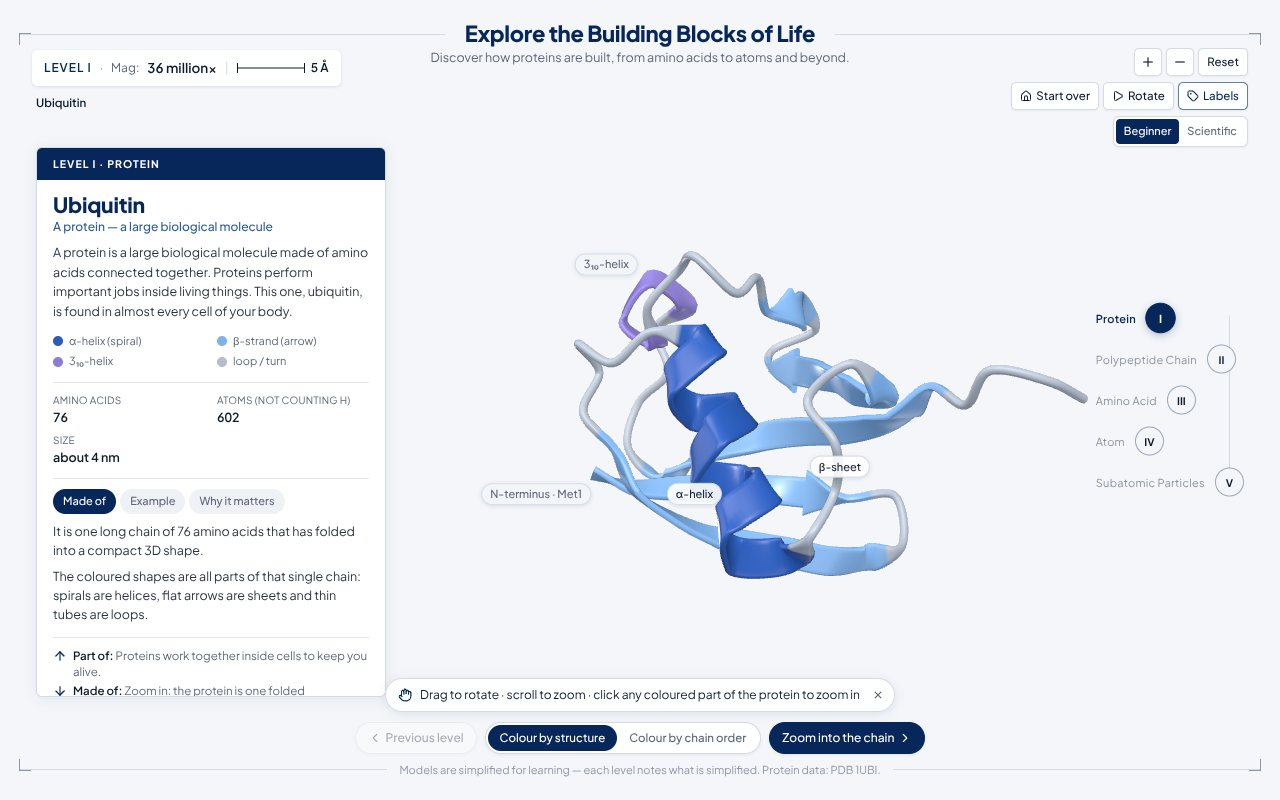
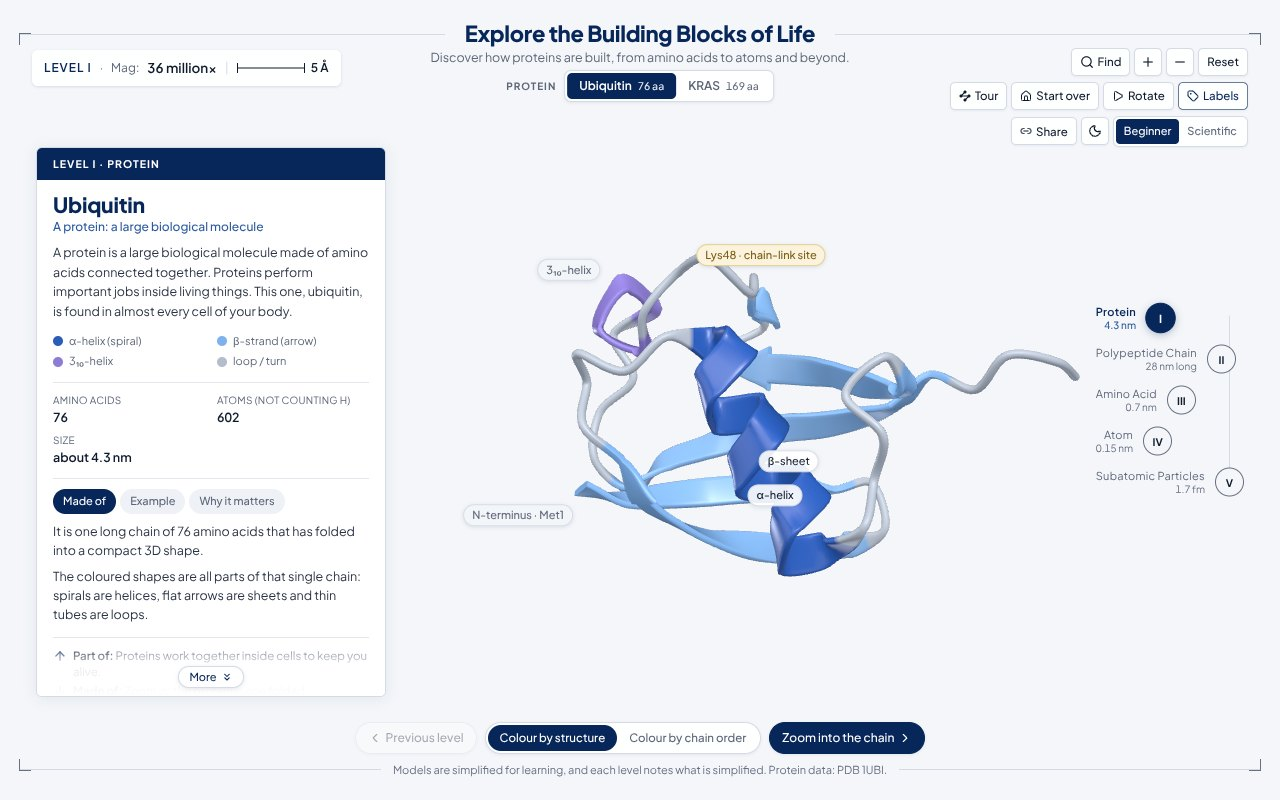
Document the pipeline in the README

diff --git a/README.md b/README.md
@@ -4,7 +4,9 @@ An interactive 3D journey into a real protein. Start with the folded protein **u
 
 **Protein → Polypeptide Chain → Amino Acid → Atom → Subatomic Particles**
 
-Click any part to fly into it. The camera approaches the component you picked, the surrounding structure swells past the camera and dissolves, and the next level grows out of the exact spot you clicked. Every level is real, interactive 3D (Three.js / React Three Fiber), built from measured coordinates wherever they exist. Each level states clearly what has been simplified.
+A second section, **How it was made**, follows the same KRAS molecule through the lab in ten interactive 3D stages, from its gene to the deposited structure, using what the 4OBE file records about its own experiment.
+
+Click any part to fly into it. The camera approaches the component you picked, the surrounding structure swells past the camera and dissolves, and the next level grows out of the exact spot you clicked. Every level is real, interactive 3D (Three.js / React Three Fiber), built from measured coordinates wherever they exist. Each level states clearly what has been simplified. New visitors can press **Tour** and watch the whole journey with captions.
 
 ![Level I: ubiquitin ribbon](docs/screenshots/1-protein.jpg)
 
@@ -12,6 +14,20 @@ Click any part to fly into it. The camera approaches the component you picked, t
 | --- | --- | --- | --- |
 | ![chain](docs/screenshots/2-polypeptide-chain.jpg) | ![amino acid](docs/screenshots/3-amino-acid.jpg) | ![atom](docs/screenshots/4-atom.jpg) | ![particles](docs/screenshots/5-subatomic-particles.jpg) |
 | ![unfolded](docs/screenshots/2b-chain-unfolded.jpg) | ![free amino acid](docs/screenshots/3b-free-amino-acid.jpg) | ![electron cloud](docs/screenshots/4b-electron-cloud.jpg) | ![zoom transition](docs/screenshots/transition-zoom.jpg) |
+
+### Features at a glance
+
+* **Guided tour**: one click zooms through all five levels on its own, with a caption at each stop (pause, step back or skip at any time).
+* **Real sizes**: the level navigation shows how big each level really is, measured from the structure: protein 4.5 nm, stretched chain 64 nm, amino acid 0.6 nm, atom 0.15 nm, proton 1.7 fm (KRAS).
+* **Cancer hotspots** (KRAS): highlights Gly12, Gly13 and Gln61 on the ribbon and the chain, explains what each mutation does and jumps straight to it.
+* **Find an amino acid**: type `G12`, `Lys48`, `61` or `glycine` and open it at Level III.
+* **Shareable links**: the address bar always describes the current view, and **Share** copies it.
+* **Dark mode**: follows the system setting until you choose; remembered per browser.
+* **Numbered helices** in Scientific mode (α1 to α5 for KRAS), labels that keep clear of the panels, and a "More" cue when the info card scrolls.
+
+| Guided tour | Cancer hotspots | Dark mode | Find |
+| --- | --- | --- | --- |
+| ![guided tour](docs/screenshots/guided-tour.jpg) | ![hotspots](docs/screenshots/kras-hotspots.jpg) | ![dark mode](docs/screenshots/dark-mode.jpg) | ![search](docs/screenshots/residue-search.jpg) |
 
 ---
 
@@ -26,7 +42,36 @@ Use the **Protein** switcher (top centre) to choose a structure. Each one starts
 
 ![KRAS with GDP and Mg²⁺](docs/screenshots/kras-protein.jpg)
 
+For KRAS, the **Cancer hotspots** toggle (Levels I and II) marks the three classic oncogenic positions, G12, G13 and Q61, in red; the info card lists what each change does, with a shortcut into each one.
+
 Structures can be in either the classic PDB format (`.pdb`) or PDBx/mmCIF (`.cif`, the wwPDB's current standard format); the app detects the format from the file contents. It loads the bundled copy first and, if that file is missing, downloads it from `files.rcsb.org` in the browser. To add another protein, drop its structure file into `public/pdb/` and add an entry to `src/content/proteins.ts` (file, chain, start residue, functional sites, residue notes and Level I text).
+
+## How it was made: from gene to structure
+
+Switch to **How it was made** (top centre) to follow KRAS (PDB 4OBE) through the ten steps that produced the structure. Each stage is its own 3D scene with lab steps you trigger (**Add IPTG**, **Load the nickel column**, **Let it equilibrate**, …), a card that explains it at Beginner or Scientific level, and a note on what is simplified. Arrow keys move between stages; the last stage opens the finished structure in the explorer.
+
+| # | Stage | What you see |
+| --- | --- | --- |
+| 1 | Gene | KRAS on chromosome 12 (12p12.1), then a to-scale B-DNA close-up of codons 10 to 21 with codons 12 (GGT) and 13 (GGC) spelled out |
+| 2 | Construct design | The 188 residues trimmed to the G-domain (1 to 169) and a His-tag plus TEV site added; Gly0, which 4OBE flags as an expression tag, stays behind |
+| 3 | Plasmid | The construct pasted into a pJExpress401 ring with promoter, origin and resistance gene |
+| 4 | E. coli | BL21(DE3) cells take up the plasmid; the antibiotic clears the cells without it; the colony grows |
+| 5 | Expression | IPTG switches the gene on; a ribosome reads the mRNA and the chain folds into the real 4OBE fold and picks up GDP·Mg²⁺ |
+| 6 | Purification | Cells broken open, nickel column (flow-through, wash, imidazole), tag cut off, size exclusion, with schematic chromatograms |
+| 7 | Storage | Concentrated, split into single-use tubes, flash-frozen in liquid nitrogen, kept at −80 °C |
+| 8 | Crystallization | A hanging drop shrinks and crystals grow; inside the crystal, the real C2 unit cell holds 8 KRAS molecules made from the 2 deposited ones by symmetry |
+| 9 | X-ray diffraction | The crystal turns in the beam at APS 19-ID; spots calculated from the 4OBE atoms light up on an ADSC Quantum 315 detector, with a flat detector image you can hover |
+| 10 | Solved structure | Molecular replacement places a search model, refinement settles the atoms into calculated electron density, and the model is deposited as 4OBE |
+
+| Plasmid | Expression | Purification |
+| --- | --- | --- |
+| ![plasmid](docs/screenshots/pipeline-3-plasmid.jpg) | ![expression](docs/screenshots/pipeline-5-expression.jpg) | ![purification](docs/screenshots/pipeline-6-purification.jpg) |
+| **Inside the crystal** | **X-ray diffraction** | **Refined in the electron density** |
+| ![unit cell](docs/screenshots/pipeline-8-crystal-lattice.jpg) | ![diffraction](docs/screenshots/pipeline-9-diffraction.jpg) | ![refined](docs/screenshots/pipeline-10-refined.jpg) |
+
+Every fact on a stage card carries a badge saying where it comes from: **4OBE** (read from the file: gene names, expression host and plasmid, crystallization recipe, cell and space group, beamline, wavelength, detector, dates, R-factors), **computed** (worked out from the file, such as the molecules per cell and the solvent content), or **typical** (common lab practice that the file does not record, such as storage temperatures).
+
+---
 
 ## Quick start
 
@@ -72,11 +117,34 @@ No API keys or network access are needed at runtime. Both protein structures shi
 | Zoom into a component | click it | `→` (zooms into the current selection) |
 | Previous level | "Back to …" button | `←` or `Esc` |
 | Jump to any level | right-hand I–V navigation or the breadcrumb | |
+| Find an amino acid | **Find** | `/` |
+| Guided tour | **Tour** (or "Take the tour" in the first hint) | `T`; during the tour `←` `→` step and `Esc` ends it |
 | Reset view / start over | **Reset** / **Start over** | `R` |
 | Labels | **Labels** | `L` |
 | Beginner ↔ Scientific | toggle | `M` |
+| Light ↔ dark theme | moon / sun button | `D` |
+| Copy a link to this view | **Share** | |
 
-The magnification and scale bar in the top-left pill update live as you zoom (Levels I–III use real Å/nm scale; IV–V are marked schematic).
+The magnification and scale bar in the top-left pill update live as you zoom (Levels I–III use real Å/nm scale; IV–V are marked schematic). The level navigation on the right gives the real size of each level.
+
+### Shareable links
+
+The address bar mirrors the view, so any view can be bookmarked or sent:
+
+| Parameter | Meaning | Example |
+| --- | --- | --- |
+| `p` | protein: `ubiquitin` or `kras` | `p=kras` |
+| `l` | level 1 to 5 | `l=3` |
+| `r` | residue number | `r=12` |
+| `a` | atom name in that residue | `a=CA` |
+| `x` | particle at Level V: `proton`, `neutron`, `electron` | `x=electron` |
+| `m` | `sci` for Scientific mode | `m=sci` |
+| `v` | view option: `unfolded` (II), `free` (III), `cloud` (IV) | `v=cloud` |
+| `h` | `1` to show cancer hotspots (I and II) | `h=1` |
+| `view` | `make` opens How it was made | `view=make` |
+| `s` | stage 1 to 10 in How it was made | `s=9` |
+
+For example, `/?p=kras&l=4&r=12&a=CA` opens the α-carbon of KRAS Gly12. `/?view=make&s=9` opens the X-ray diffraction stage.
 
 ---
 
@@ -87,6 +155,9 @@ The magnification and scale bar in the top-left pill update live as you zoom (Le
 * **Bead model (II).** One bead stands for a whole residue. This simplification is stated on screen.
 * **Amino acid (III).** Heavy atoms are the crystal coordinates. X-ray structures rarely resolve hydrogens, so they are placed from residue templates (4OBE includes riding hydrogens added during refinement; these are skipped so both proteins are drawn the same way) with ideal geometry (C–H 1.09 Å, N–H 1.01 Å, O–H 0.96 Å; sp³ tetrahedral, sp² trigonal). Protonation states are for pH ≈ 7: Lys/Arg protonated, Asp/Glu deprotonated, His as the Nε2–H tautomer, a charged N-terminus and C-terminus. The free amino acid uses the neutral textbook form; the scientific text notes the zwitterion. Formulas are counted from the displayed atoms and verified against reference formulas for every residue type in ubiquitin.
 * **Atom (IV).** The Bohr-style orbits carry an on-screen warning that electrons do not travel in fixed planetary orbits. The cloud view samples Slater-type 1s/2s/2p densities (Clementi–Raimondi exponents; radial nodes omitted) and fills p orbitals by Hund's rule. The nucleus is enlarged about 10⁴×; the text states the real scale ("a 1 cm marble → an atom about 280 m across").
+* **How it was made: crystal (8).** The unit cell, space group (C 1 2 1) and symmetry operators come from the file. Each of the 8 molecules in the cell is a symmetry copy of one of the two deposited chains, moved by whole cells so its centre lies inside the box; the hover gives the operator, e.g. −x+1/2, y+1/2, −z. The Matthews coefficient computed from the cell (1.99 Å³/Da, 38% solvent) matches the file. The hanging drop is schematic and days are compressed into seconds.
+* **How it was made: diffraction (9).** Spots are calculated in the browser: every reflection to the file's 1.24 Å limit is enumerated from the cell, systematic absences are removed (for C2, h + k odd), and each reciprocal-lattice point is recorded where it crosses the Ewald sphere at the recorded wavelength (0.97926 Å) as the crystal turns. Intensities are |F|², summed over all 2,738 heavy atoms and the symmetry operators with four-Gaussian form factors and each atom's B-factor; they agree with a direct brute-force sum to within a few percent. Lorentz and polarisation factors, background, noise and spot shape are left out. The detector distance (about 150 mm) is chosen so the 1.24 Å limit reaches the detector edge, and the crystal mounting is arbitrary. The crystal, loop and pin are enlarged.
+* **How it was made: solved structure (10).** The mesh is electron density calculated from the deposited atoms of the P-loop, GDP and Mg²⁺ (each atom's form factor and B-factor, contoured at 1.2 e/Å³); the first map adds 50 Å² to every B to look blurry. The search model is drawn with 4OBE's own atoms, since 4EPV is not bundled, and the refinement is schematic. R-work and R-free are the file's values.
 * **Particles (V).** Charges, masses, quark content and lifetimes are standard values. Sizes and colours are schematic, and the gluon springs are only a suggestion of the strong force.
 
 ---
@@ -103,15 +174,34 @@ src/
     useKeyboardShortcuts.ts
     ui/                          FrameChrome, ScalePill, Breadcrumb, ViewControls, LevelNav,
                                  InfoPanel + LevelWidgets, BottomBar, HoverTooltip, Hints,
-                                 LabelOverlay, LoadingState, ProteinSwitcher
+                                 LabelOverlay, LoadingState, ProteinSwitcher, ResidueSearch, Tour
+  pipeline/                      How it was made: ten lab stages in their own canvas
+    PipelineView.tsx             Layout: stage pill, section tabs, stage card, actions, navigation
+    PipelineCanvas.tsx           Canvas, lights, mounts the current (or outgoing + incoming) stage
+    PipelineCamera.tsx           Per-stage framing, fly-through between stages, re-framing on steps
+    PipelineStage.tsx            Scale and fade of a stage during a change
+    runtime.ts                   Per-frame transition state and the debug speed
+    stages/                      GeneStage, ConstructStage, PlasmidStage, CellStage, ExpressionStage,
+                                 PurificationStage, StorageStage, CrystalStage, DiffractionStage,
+                                 StructureStage (+ index.tsx registry)
+    lib/crystalPacking.ts        Unit-cell packing, cell edges, symmetry operator text, crystal shape
+    lib/diffraction.ts           Reflections, absences, Ewald crossings and |F|² (built in slices)
+    lib/density.ts               Calculated electron density and its chicken-wire contour
+    lib/viewFade.ts              Cross-fade between two views of a stage
+    ui/                          StagePanel, StageWidget (keys, chromatograms, thermometer,
+                                 detector image), StageControls, PipelineNav, StagePill
   content/                       Educational content (separate from rendering)
     proteins.ts                  The proteins on offer: file, start residue, sites, Level I text
     info.ts                      Beginner/scientific text per level, hover text, breadcrumb
     aminoAcids.ts                Reference data for all 20 amino acids
-    levels.ts                    Level names, numerals, real-world scale per unit
+    levels.ts                    Level names, numerals, real-world scale, real size per level
+    tour.ts                      Guided tour steps and captions
+    pipeline.ts                  Stage names and text, facts with their sources, lab steps
   lib/                           Pure scientific/geometry code (no React)
     pdb/parsePdb.ts              Fixed-column PDB parser (ATOM, HETATM, HELIX, SHEET)
     pdb/parseCif.ts              PDBx/mmCIF reader (atom_site, struct_conf, struct_sheet_range)
+    pdb/experiment.ts            How the entry was made (gene, host, crystal, beamline, refinement)
+                                 plus the unit cell, symmetry operators and asymmetric-unit atoms
     structure/protein.ts         Protein model: centring, principal axes, regions, loading
     structure/chainLayout.ts     Folded / unfolded bead layouts
     geometry/ribbon.ts           Cartoon ribbon mesh builder (+ per-residue picking)
@@ -122,6 +212,7 @@ src/
     atom/atomModel.ts            Nucleon packing, Bohr shells, orbital cloud sampling
   scene/                         3D rendering (React Three Fiber)
     SceneCanvas.tsx              Canvas, lights, adaptive DPR, fog
+    SceneThemeSync.tsx           Background, fog and colour mixing follow the light / dark theme
     StageManager.tsx             Mounts current / outgoing / incoming level stages
     StageGroup.tsx               Per-stage transform + material fade during transitions
     TransitionController.tsx     Staged zoom: approach → dissolve → settle (both directions)
@@ -132,8 +223,11 @@ src/
                                  ParticleLevel, atomLayout
     shared/                      Palette, SceneLabel + label registry, geometry helpers
   store/
-    explorerStore.ts             Zustand: level, selection path, modes, toggles, transitions
+    explorerStore.ts             Zustand: level, selection path, modes, toggles, theme, transitions
     dataStore.ts                 Loaded proteins + memoised per-residue molecules
+    tourStore.ts                 Guided tour state (step, pause, progress)
+    pipelineStore.ts             How it was made: stage, steps per stage, view toggles, transitions
+    urlState.ts                  Shareable links: read the address on load, keep it in sync
 ```
 
 ### How a transition works
@@ -153,7 +247,7 @@ src/
 
 Next.js 16 (App Router, Turbopack) · React 19 · TypeScript · Three.js · @react-three/fiber · @react-three/drei · Tailwind CSS v4 · Motion · Zustand · lucide-react · Fontsource (Plus Jakarta Sans).
 
-**Visual style:** a navy-on-white identity (primary `#07265A`) with grey-blue panels, navy section bars and a single geometric sans (Plus Jakarta Sans) for headings and text. All colours are Tailwind theme tokens in `src/app/globals.css` (`brand`, `brand-mid`, `brand-soft`, `paper`, `panel`, `ink`, `body`, `muted`, `line`); the 3D scene palette lives in `src/scene/shared/palette.ts` and its background matches `--color-paper` so the depth fog blends in.
+**Visual style:** a navy-on-white identity (primary `#07265A`) with grey-blue panels, navy section bars and a single geometric sans (Plus Jakarta Sans) for headings and text. All colours are Tailwind theme tokens in `src/app/globals.css` (`brand`, `brand-ink`, `brand-mid`, `brand-soft`, `surface`, `paper`, `panel`, `ink`, `body`, `muted`, `faint`, `line`, `hotspot`); the dark theme redefines the same tokens under `[data-theme="dark"]`, so components need no theme logic. Every text colour meets WCAG AA contrast (4.5:1) in both themes. A small script in the page head applies the saved or system theme before first paint. The 3D scene palette lives in `src/scene/shared/palette.ts`, and its background matches `--color-paper` so the depth fog blends in.
 
 * `three` is pinned to **0.182.0**. React Three Fiber 9.x still creates a `THREE.Clock`, which three r183+ deprecates with a console warning; 0.182 keeps the console clean.
 * 3D labels use a small custom overlay (`LabelOverlay`) instead of drei's `<Html>`. Each `<Html>` creates its own React root, and unmounting many of them in one commit (which every level transition does) can race in React 19.
@@ -161,4 +255,4 @@ Next.js 16 (App Router, Turbopack) · React 19 · TypeScript · Three.js · @rea
 
 ### Debugging
 
-Append `?debug` to the URL to expose `window.__explorer`, which holds the stores, scene refs and a `transitionRuntime.timeScale` you can lower to watch transitions frame by frame.
+Append `?debug` to the URL to expose `window.__explorer`, which holds the stores, scene refs and a `transitionRuntime.timeScale` you can lower to watch transitions frame by frame. In How it was made, `pipelineRuntime.speed` speeds up or slows down the stages' own animations.
